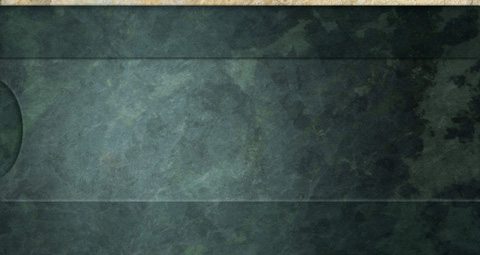
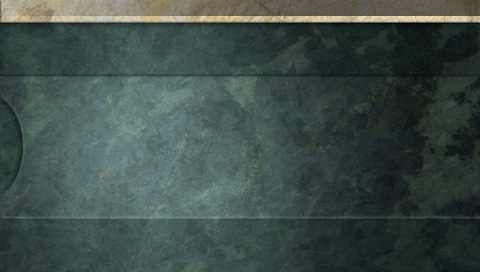
disabled wood & gold texture, backdrop size 480x272
blending of wood and/or gold texture on some resolutions(mobile,
tablets, etc) draws line which can be distracting. The backdrop is now
full size of PSP resolution (480x272, 2x res can be loaded like 960x544)

diff --git a/projects/mtg/src/GuiFrame.cpp b/projects/mtg/src/GuiFrame.cpp
@@ -6,9 +6,9 @@
 GuiFrame::GuiFrame(GameObserver* observer)
     : GuiLayer(observer)
 {
-    if (observer->getResourceManager())
-    {
-        if (observer->getResourceManager()->GetTexture("wood.png"))
+    //if (observer->getResourceManager())
+    //{
+        /*if (observer->getResourceManager()->GetTexture("wood.png"))
         {
             wood = observer->getResourceManager()->RetrieveQuad("wood.png", 0, 0, 0, 0);
             wood->mHeight = 32.f;
@@ -17,9 +17,9 @@ GuiFrame::GuiFrame(GameObserver* observer)
         else
         {
             GameApp::systemError += "Can't load wood texture : " __FILE__ "\n";
-        }
+        }*/
 
-        if (observer->getResourceManager()->GetTexture("gold.png"))
+        /*if (observer->getResourceManager()->GetTexture("gold.png"))
         {
             gold1 = observer->getResourceManager()->RetrieveQuad("gold.png", 0, 0, SCREEN_WIDTH, 6, "gold1");
             gold2 = observer->getResourceManager()->RetrieveQuad("gold.png", 0, 6, SCREEN_WIDTH, 6, "gold2");
@@ -30,9 +30,9 @@ GuiFrame::GuiFrame(GameObserver* observer)
                 gold2->SetColor(ARGB(127, 255, 255, 255));
                 gold2->SetHFlip(true);
             }
-        }
-    }
-    step = 0.0;
+        }*/
+    //}
+    //step = 0.0;
 
 }
 
@@ -42,12 +42,12 @@ GuiFrame::~GuiFrame()
 
 void GuiFrame::Render()
 {
-    JRenderer* renderer = JRenderer::GetInstance();
+    /*JRenderer* renderer = JRenderer::GetInstance();
     float sized = step / 4;
     if (sized > SCREEN_WIDTH)
         sized -= SCREEN_WIDTH;
-    renderer->RenderQuad(wood.get(), 0, 0);
-    if (gold1.get())
+    renderer->RenderQuad(wood.get(), 0, 0);*/
+    /*if (gold1.get())
     {
         renderer->RenderQuad(gold1.get(), -sized, 16);
         renderer->RenderQuad(gold1.get(), -sized + 479, 16);
@@ -64,12 +64,12 @@ void GuiFrame::Render()
             renderer->RenderQuad(gold2.get(), step / 2, 16);
             renderer->RenderQuad(gold2.get(), step / 2 - 479, 16);
         }
-    }
+    }*/
 }
 
 void GuiFrame::Update(float dt)
 {
-    step += dt * 5;
+    /*step += dt * 5;
     if (step > 2 * SCREEN_WIDTH)
-        step -= 2 * SCREEN_WIDTH;
+        step -= 2 * SCREEN_WIDTH;*/
 }

diff --git a/projects/mtg/src/ActionStack.cpp b/projects/mtg/src/ActionStack.cpp
@@ -1220,11 +1220,11 @@ void ActionStack::Render()
         JRenderer * renderer = JRenderer::GetInstance();
 
         //stack shadow
-        renderer->FillRoundRect(x0 - 7, y0+2, width + 17, height + 2, 9.0f, ARGB(128,0,0,0));
+        //renderer->FillRoundRect(x0 - 7, y0+2, width + 17, height + 2, 9.0f, ARGB(128,0,0,0));
         //stack fill
-        renderer->FillRoundRect(x0 - 7, y0+2, width + 17, height + 2, 9.0f, ARGB(200,10,10,10));
+        renderer->FillRect(x0 - 7, y0+2, width + 17, height + 2, ARGB(245,10,10,10));
         //stack border
-        renderer->DrawRoundRect(x0 - 7, y0+2, width + 17, height + 2, 9.0f, ARGB(160,240,240,240));
+        renderer->DrawRect(x0 - 7, y0+2, width + 17, height + 2, ARGB(160,240,240,240));
 
         std::ostringstream stream;
         // WALDORF - changed "interrupt ?" to "Interrupt?". Don't display count down

diff --git a/projects/mtg/src/GuiPlay.cpp b/projects/mtg/src/GuiPlay.cpp
@@ -160,10 +160,10 @@ void GuiPlay::BattleField::Update(float dt)
 void GuiPlay::BattleField::Render()
 {
     if (height > 3)
-        JRenderer::GetInstance()->FillRect(0, SCREEN_HEIGHT / 2 + 10 - height / 2, 480, height, ARGB(127, red, 0, 0));
-    //JQuadPtr fillblack = WResourceManager::Instance()->RetrieveTempQuad("fillblack.png", TEXTURE_SUB_5551);
-    //if (fillblack.get() && height > 3)//mask
-        //JRenderer::GetInstance()->RenderQuad(fillblack.get(), 0, 70.f, 0, 0.5f, 0.5f);
+    {
+        JRenderer::GetInstance()->FillRect(0, SCREEN_HEIGHT / 2 + 8.5f - height / 2, 480, height, ARGB(127, red, 0, 0));
+        JRenderer::GetInstance()->DrawRect(0, SCREEN_HEIGHT / 2 + 8.5f - height / 2, 480, height, ARGB(255, 255, 165, 0));        
+    }
 }
 
 GuiPlay::GuiPlay(DuelLayers* view) :

diff --git a/projects/mtg/src/GuiBackground.cpp b/projects/mtg/src/GuiBackground.cpp
@@ -31,7 +31,7 @@ void GuiBackground::Render()
     if (quad.get())
     {
         quad->mWidth = 480.f;
-        quad->mHeight = 255.f;
-        renderer->RenderQuad(quad.get(), 0, 18);
+        quad->mHeight = 272.f;
+        renderer->RenderQuad(quad.get(), 0, 0);
     }
 }

diff --git a/projects/mtg/src/GuiPhaseBar.cpp b/projects/mtg/src/GuiPhaseBar.cpp
@@ -24,7 +24,7 @@
  };
  */
 
-const float GuiPhaseBar::zoom_big = (float)(1.5 * 1.4);
+const float GuiPhaseBar::zoom_big = (float)(1.5 * 1.2);
 const float GuiPhaseBar::zoom_small = 1.5;
 const float GuiPhaseBar::step = M_PI/6.0f;
 
